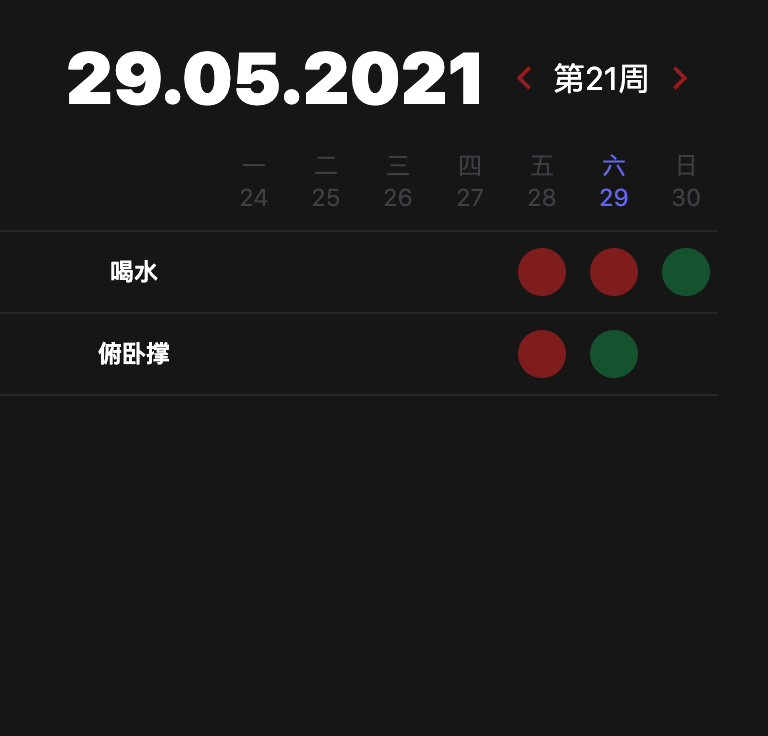
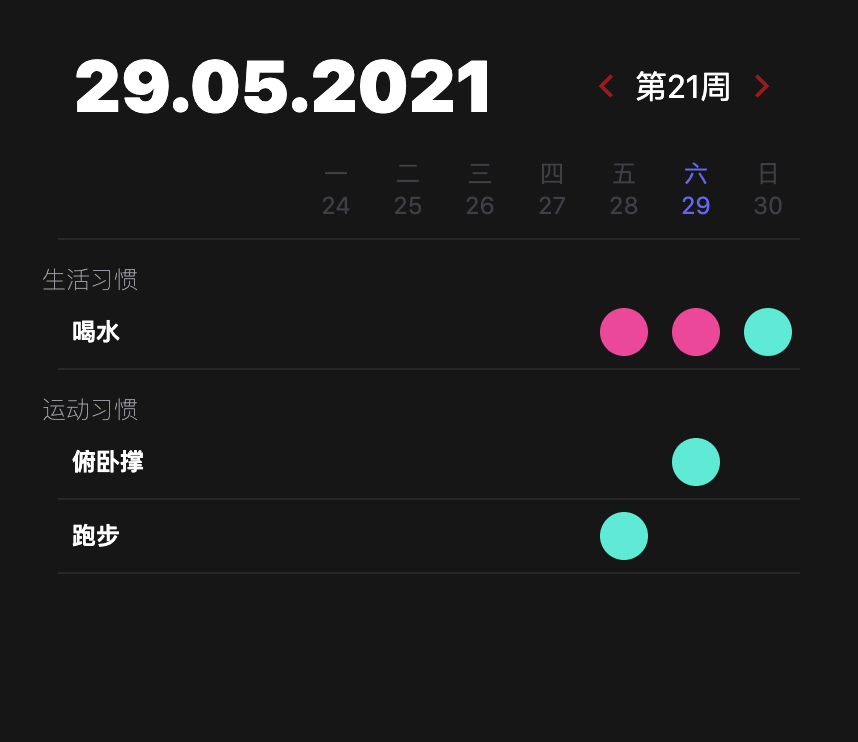
feat: add habit group and adjust theme

diff --git a/src/views/Home.vue b/src/views/Home.vue
@@ -19,7 +19,7 @@
         <div class="overflow-y-auto h-800">
 
           <div
-            class="flex justify-end  space-x-1  dark:bg-black z-50 border-b border-gray-400 dark:border-gray-800 py-2 mr-8">
+            class="flex justify-end  space-x-1  dark:bg-black z-50 border-b border-gray-400 dark:border-gray-800 py-2 mx-8">
             <template v-for="date in getCurrentWeekDates()">
               <div :key="date.day"
                    class="flex justify-center items-center self-center text-center">
@@ -31,27 +31,38 @@
               </div>
             </template>
           </div>
-          <template v-for="habit in this.habitContent">
-            <!-- Day switcher -->
-            <div :key="habit.name"
-                 class="flex dark:bg-black justify-end items-center self-center text-center space-x-1 z-50 border-b border-gray-400 dark:border-gray-800 py-2 mr-8">
+          <template v-for="habitGroup in this.habitContent">
+            <div :key="habitGroup.groupName">
+              <div
+                class="flex justify-start items-center self-center text-center space-x-1 	mt-3 mx-2">
+              <span class="text-center w-20 font-thin text-xs text-gray-400">
+                {{ habitGroup.groupName }}
+              </span>
+              </div>
+              <template v-for="habit in habitGroup.items">
+                <!-- Day switcher -->
+                <div :key="habit.name"
+                     class="flex dark:bg-black justify-end items-center self-center  space-x-1 z-50 border-b border-gray-400 dark:border-gray-800 py-1.5 mx-8">
               <span
-                class="text-center w-20 rounded-lg font-black text-xs hover:bg-gray-200 dark:hover:bg-gray-800 cursor-pointer "
+                class="text-left w-28 rounded-lg font-black text-xs  hover:bg-gray-200 dark:hover:bg-gray-800 cursor-pointer "
               >
                 {{ habit.name }}
               </span>
 
-              <template v-for="date in getCurrentWeekDates()">
-                <div :key="date.day" class="flex-col justify-center items-center self-center text-center">
+                  <template v-for="date in getCurrentWeekDates()">
+                    <div :key="date.day" class="flex-col justify-center items-center self-center text-center">
                   <span
-                    class="flex justify-center items-center self-center text-center w-6 h-6 rounded-full font-black text-xs  cursor-pointer mx-1		"
-                    :class="{ 'bg-green-600 dark:bg-green-900 hover:bg-green-400 dark:hover:bg-green-700':getDateGoalStatus(date.isoDate, habit) ,
-                          'bg-red-600 dark:bg-red-900 hover:bg-red-400 dark:hover:bg-red-700':getDateGoalStatus(date.isoDate, habit)===false,
+                    class="flex justify-center items-center self-center text-center w-6 h-6 rounded-full font-black text-xs  cursor-pointer mx-1"
+                    :class="{ 'bg-teal-300 dark:bg-teal-300 hover:bg-teal-100 dark:hover:bg-teal-100':getDateGoalStatus(date.isoDate, habit) ,
+                          'bg-pink-500 dark:bg-pink-500 hover:bg-pink-300 dark:hover:bg-pink-300':getDateGoalStatus(date.isoDate, habit)===false,
                           'bg-transparent hover:bg-gray-200 dark:hover:bg-gray-800':getDateGoalStatus(date.isoDate, habit)===undefined
                 }"
                     :key="date.day"
                     @click="toggleDateGoalStatus(date.isoDate,habit)">
                 </span>
+                    </div>
+                  </template>
+
                 </div>
               </template>
             </div>

diff --git a/tailwind.config.js b/tailwind.config.js
@@ -17,6 +17,8 @@ module.exports = {
       white: '#ffffff',
       gray: colors.gray,
       indigo: colors.indigo,
+      teal: colors.teal,
+      pink: colors.pink,
       red: colors.red,
       yellow: colors.amber,
       green: colors.green,

diff --git a/src/background.js b/src/background.js
@@ -29,7 +29,7 @@ function createWindow() {
   win = new BrowserWindow({
     width: 450,
     minWidth: 450,
-    maxWidth: 2050,
+    maxWidth: isDevelopment? 1050:450,
     height: 1000,
     title: 'Loop Habit',
     backgroundColor: '#161616',

diff --git a/src/mixins/calendar.js b/src/mixins/calendar.js
@@ -73,7 +73,7 @@ export default {
   watch: {
     today(newDate, oldDate) { //eslint-disable-line
       this.setDay(newDate)
-      this.loadFile()
+      // this.loadFile()
     }
   }
 }

diff --git a/src/mixins/file.js b/src/mixins/file.js
@@ -56,7 +56,7 @@ export default {
     }
   },
   created() {
-    this.loadFile()
+    // this.loadFile()
     this.loadHabitFile()
   }
 }
